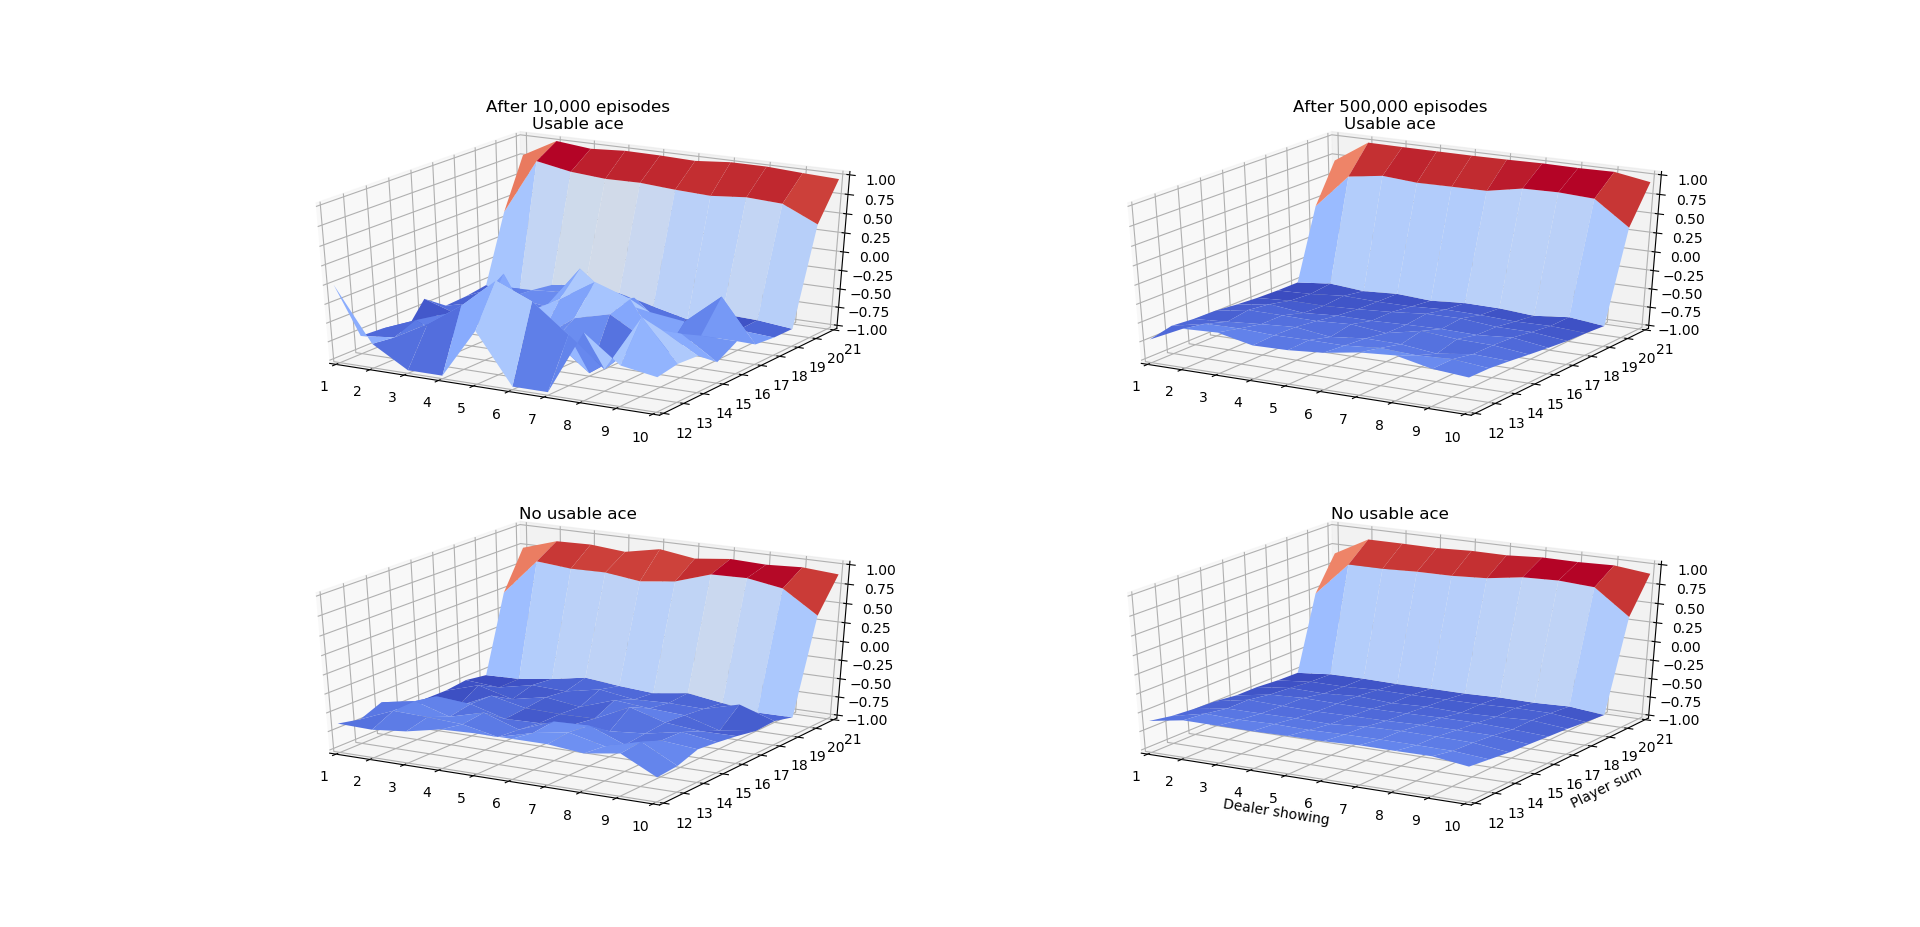
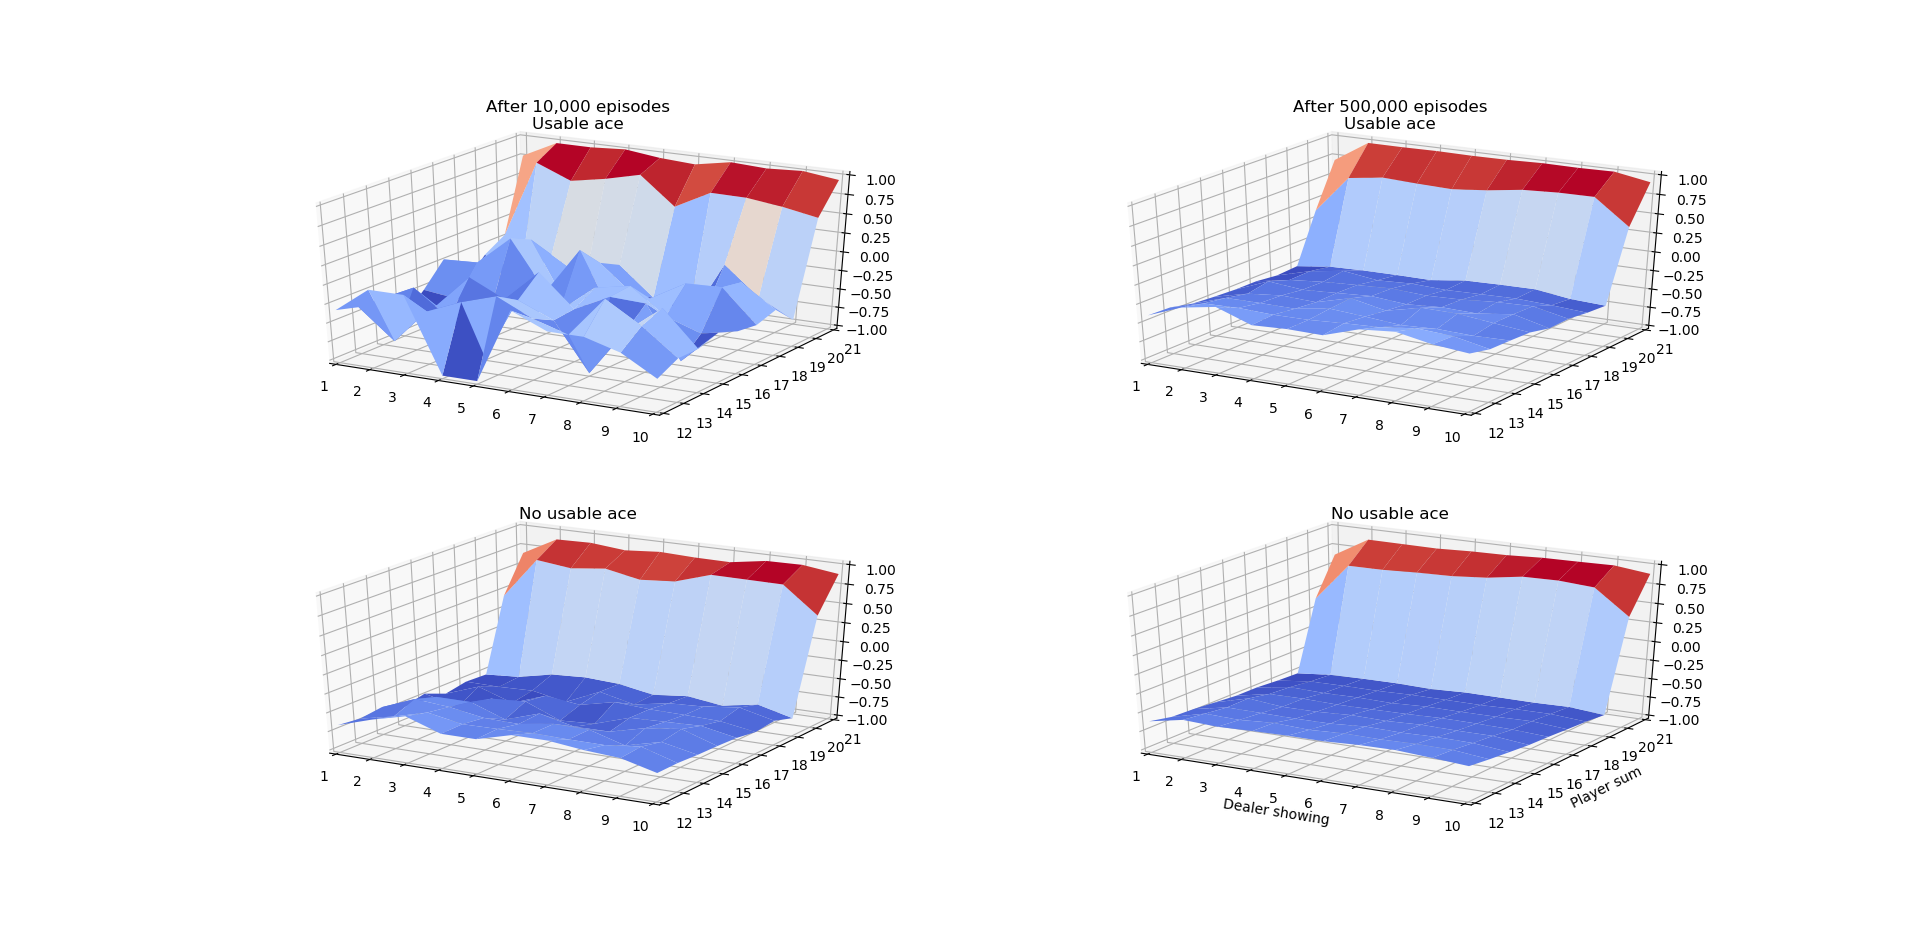
Monte Carlo Control - Solving Blackjack
5. Monte Carlo Methods
5.3 Monte Carlo Control
Example 5.3: Solving Blackjack

diff --git a/5_monte_carlo_methods/monte_carlo_control.py b/5_monte_carlo_methods/monte_carlo_control.py
@@ -1,0 +1,181 @@
+'''
+Reinforcement Learning by Sutton and Barto
+5. Monte Carlo Methods
+5.3 Monte Carlo Control
+Example 5.3: Solving Blackjack
+'''
+import numpy as np
+from collections import defaultdict
+import matplotlib.pyplot as plt
+from matplotlib import cm
+from mpl_toolkits.mplot3d import Axes3D
+
+
+HIT = 0
+STICK = 1
+
+
+def generate_episode(policy):
+    dealer_showing = min(np.random.randint(1, 14), 10)
+    dealer_hidden = min(np.random.randint(1, 14), 10)
+    dealer_sum = 0
+    dealer_usable_ace = False
+    dealer_sum += dealer_showing
+    if dealer_showing == 1:
+        dealer_sum += 10
+        dealer_usable_ace = True
+    dealer_sum += dealer_hidden
+    if dealer_sum > 21 and dealer_usable_ace:
+        dealer_sum -= 10
+        dealer_usable_ace = False
+    if dealer_hidden == 1 and dealer_sum <= 11:
+        dealer_sum += 10
+        dealer_usable_ace = True
+
+    states = []
+    actions = []
+    player_sum = np.random.randint(11, 22)
+    player_cards_num = np.random.randint(2, 4)
+    usable_ace = np.random.uniform() > 0.5
+    action = np.random.randint(0, 2)
+    s = (player_sum, dealer_showing, usable_ace)
+    states.append(s)
+    actions.append(action)
+    while action == HIT:
+        player_card = min(np.random.randint(1, 14), 10)
+        player_cards_num += 1
+        player_sum += player_card
+        if player_sum > 21 and usable_ace:
+            player_sum -= 10
+            usable_ace = False
+        if player_card == 1 and player_sum <= 11:
+            player_sum += 10
+            usable_ace = True
+        if player_sum <= 11:
+            continue
+        if player_sum > 21:
+            break
+        s = (player_sum, dealer_showing, usable_ace)
+        action = policy[s]
+        states.append(s)
+        actions.append(action)
+    
+    reward = 0
+    if player_sum == 21 and player_cards_num == 2:
+        if dealer_sum == 21:
+            reward = 0
+        else:
+            reward = 1
+    elif player_sum > 21:
+        reward = -1
+    else:
+        while dealer_sum < 17:
+            dealer_card = min(np.random.randint(1, 14), 10)
+            dealer_sum += dealer_card
+            if dealer_sum > 21 and dealer_usable_ace:
+                dealer_sum -= 10
+                dealer_usable_ace = False
+            if dealer_card == 1 and dealer_sum <= 11:
+                dealer_sum += 10
+                dealer_usable_ace = True
+        if dealer_sum > 21:
+            reward = 1
+        else:
+            if player_sum > dealer_sum:
+                reward = 1
+            elif player_sum < dealer_sum:
+                reward = -1
+            else:
+                reward = 0
+    return reward, states, actions
+
+
+def get_initial_policy():
+    policy = defaultdict(lambda: HIT)
+    for player_sum in range(20, 22):
+        for dealer_showing in range(1, 11):
+            for usable_ace in (True, False):
+                s = (player_sum, dealer_showing, usable_ace)              
+                policy[s] = STICK
+    return policy
+
+
+def plot_policy(policy, usable_ace, ax):
+    policy_arr = []
+    for player_sum in range(22):
+        policy_arr.append([])
+        for dealer_showing in range(11):
+            s = (player_sum, dealer_showing, usable_ace)
+            policy_arr[-1].append(policy[s])
+    ax.matshow(policy_arr, cmap=cm.coolwarm)
+    ax.xaxis.set_ticks_position('bottom')
+    ax.invert_yaxis()
+    ax.set_xlim(0.5, 10.5)
+    ax.set_ylim(10.5, 21.5)
+
+
+def plot_V(V, usable_ace, ax):
+    z = np.zeros((10, 10))
+    for player_sum in range(12, 22):
+        for dealer_showing in range(1, 11):
+            z[player_sum - 12][dealer_showing - 1] = V[player_sum, dealer_showing, usable_ace]
+        
+    x = range(1, 11)
+    y = range(12, 22)
+    x, y = np.meshgrid(x, y)
+    
+    ax.plot_surface(x, y, z, cmap=cm.coolwarm)
+    ax.set_xlim(1, 11)
+    ax.set_ylim(11, 21)
+    ax.set_zlim(-1, 1)
+
+
+def plot_policy_and_V(policy, V):
+    fig = plt.figure()
+    
+    ax1 = fig.add_subplot(221)
+    ax1.set_title('π*\nUsable Ace')
+    plot_policy(policy, True, ax1)
+    ax2 = fig.add_subplot(223)
+    ax2.set_title('No Usable Ace')
+    ax2.set_xlabel('Dealer Showing')
+    ax2.set_ylabel('Player Sum')
+    plot_policy(policy, False, ax2)
+    
+    ax3 = fig.add_subplot(222, projection='3d')
+    ax3.set_title('V*\nUsable Ace')
+    plot_V(V, True, ax3)
+    ax4 = fig.add_subplot(224, projection='3d')
+    ax4.set_title('V*\nNo Usable Ace')
+    ax4.set_xlabel('Dealer Showing')
+    ax4.set_ylabel('Player Sum')
+    plot_V(V, False, ax4)
+    
+    plt.subplots_adjust(hspace=0.5)
+    plt.show()
+
+
+def main():
+    np.random.seed(42)
+    episodes_num = 2000000
+    Q = defaultdict(lambda: [0, 0])
+    cnt_Q = defaultdict(lambda: [0, 0])
+    V = defaultdict(float)
+    cnt_V = defaultdict(int)
+    policy = get_initial_policy()
+    
+    for i in range(episodes_num):
+        reward, states, actions = generate_episode(policy)
+        for s, a in zip(states, actions):
+            cnt_Q[s][a] += 1
+            Q[s][a] += (reward - Q[s][a])/cnt_Q[s][a]
+        for s in states:
+            cnt_V[s] += 1
+            V[s] += (reward - V[s])/cnt_V[s]
+            policy[s] = np.argmax(Q[s])
+
+    plot_policy_and_V(policy, V)
+
+
+if __name__ == '__main__':
+    main()

diff --git a/5_monte_carlo_methods/monte_carlo_policy_evaluation.py b/5_monte_carlo_methods/monte_carlo_policy_evaluation.py
@@ -10,48 +10,50 @@ from mpl_toolkits.mplot3d import Axes3D
 from matplotlib import cm
 
 
-def generate_episode(actions):
+HIT = 0
+STICK = 1
+
+
+def generate_episode(policy):
     dealer_showing = min(np.random.randint(1, 14), 10)
     dealer_hidden = min(np.random.randint(1, 14), 10)
-    dealer_sum = 0   
+    dealer_sum = 0
+    dealer_usable_ace = False
+    dealer_sum += dealer_showing
     if dealer_showing == 1:
-        dealer_sum += 11
-    else:
-        dealer_sum += dealer_showing            
-    if dealer_hidden == 1:
-        dealer_sum += 11
-        if dealer_sum > 21:
-            dealer_sum -= 10
-    else:
-        dealer_sum += dealer_hidden
-
+        dealer_sum += 10
+        dealer_usable_ace = True
+    dealer_sum += dealer_hidden
+    if dealer_sum > 21 and dealer_usable_ace:
+        dealer_sum -= 10
+        dealer_usable_ace = False
+    if dealer_hidden == 1 and dealer_sum <= 11:
+        dealer_sum += 10
+        dealer_usable_ace = True
+        
     states = []
     player_sum = 0
     player_cards_num = 0
     usable_ace = False
-    while True:
+    action = HIT
+    while action == HIT:
         player_card = min(np.random.randint(1, 14), 10)
         player_cards_num += 1
-        if player_card == 1:
-            if usable_ace:
-                player_sum += 1
-            else:
-                if player_sum <= 10:
-                    player_sum += 11
-                    usable_ace = True
-                else:
-                    player_sum += 1
-        else:
-            player_sum += player_card
+        player_sum += player_card
+        if player_sum > 21 and usable_ace:
+            player_sum -= 10
+            usable_ace = False
+        if player_card == 1 and player_sum <= 11:
+            player_sum += 10
+            usable_ace = True
         if player_sum <= 11:
             continue
         if player_sum > 21:
             break
         s = (player_sum, dealer_showing, usable_ace)
+        action = policy[s]
         states.append(s)
-        if actions[s] == 'stick':
-            break
-    
+        
     reward = 0
     if player_sum == 21 and player_cards_num == 2:
         if dealer_sum == 21:
@@ -63,13 +65,13 @@ def generate_episode(actions):
     else:
         while dealer_sum < 17:
             dealer_card = min(np.random.randint(1, 14), 10)
-            if dealer_card == 1:
-                if dealer_sum <= 10:
-                    dealer_sum += 11
-                else:
-                    dealer_sum += 1
-            else:
-                dealer_sum += dealer_card
+            dealer_sum += dealer_card
+            if dealer_sum > 21 and dealer_usable_ace:
+                dealer_sum -= 10
+                dealer_usable_ace = False
+            if dealer_card == 1 and dealer_sum <= 11:
+                dealer_sum += 10
+                dealer_usable_ace = True
         if dealer_sum > 21:
             reward = 1
         else:
@@ -110,7 +112,7 @@ def policy_evaluation(episodes_num, ax1, ax2):
     np.random.seed(0)
     V = {}
     cnt = {}
-    actions = {}
+    policy = {}
     
     for player_sum in range(12, 22):
         for dealer_showing in range(1, 11):
@@ -119,12 +121,12 @@ def policy_evaluation(episodes_num, ax1, ax2):
                 V[s] = 0
                 cnt[s] = 0
                 if player_sum >= 20:
-                    actions[s] = 'stick'
+                    policy[s] = STICK
                 else:
-                    actions[s] = 'hit'
+                    policy[s] = HIT
     
     for i in range(episodes_num):
-        reward, states = generate_episode(actions)
+        reward, states = generate_episode(policy)
         for s in states:
             cnt[s] += 1
             V[s] += (reward - V[s])/cnt[s]
